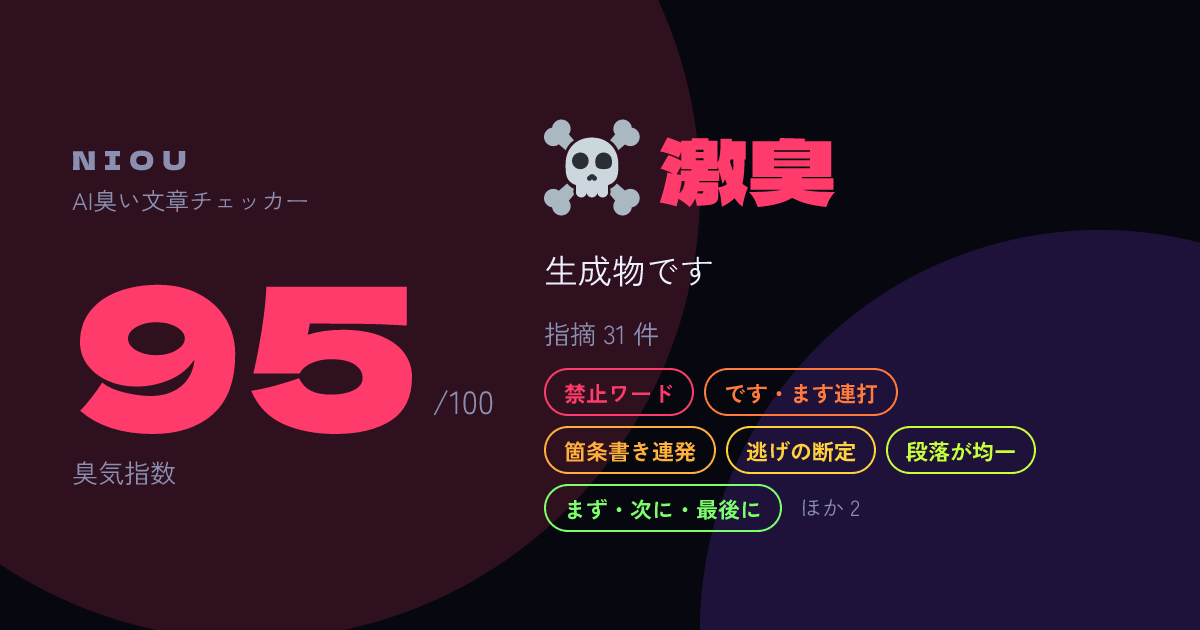
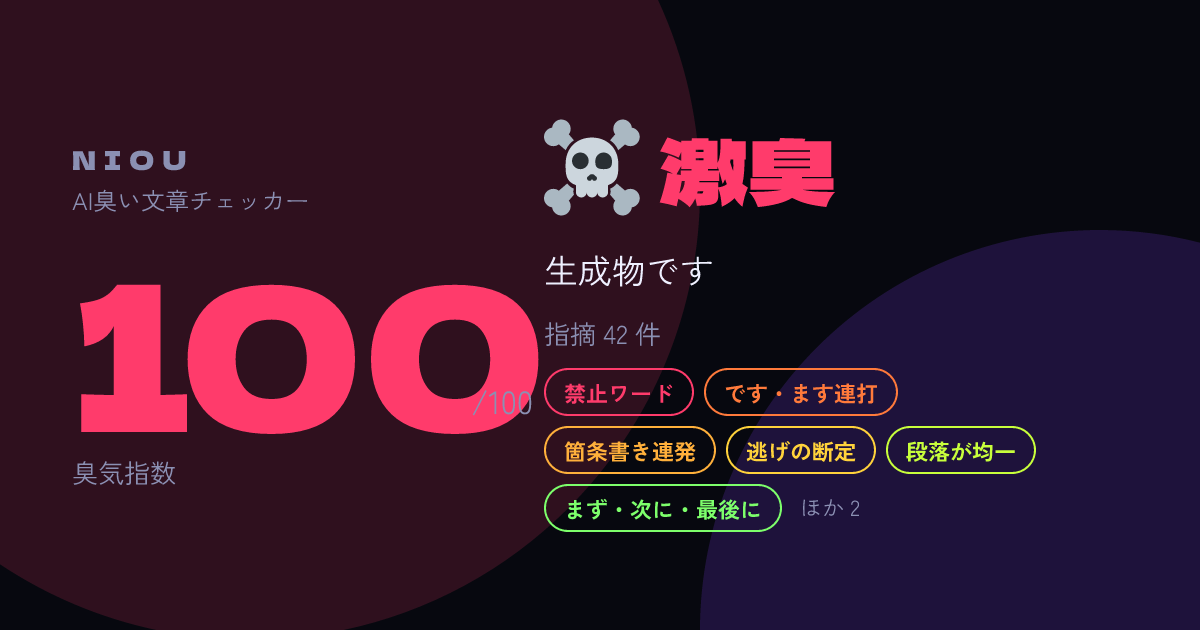
chore(samples): AI サンプルに追加の禁止ワードを織り込む
先に白状する・結論から言う・---・✅・効く・効いた・核心・正直言う・気づき。
「正直」は「正直言う」を禁止した整合で失敗語彙から外す

Changed region(s): [[0.0617, 0.4524, 0.4625, 0.6937], [0.4933, 0.5127, 0.555, 0.5429]]

diff --git a/src/core/samples.ts b/src/core/samples.ts
@@ -1,26 +1,32 @@
 /** 初見の人が 1 クリックで試せるサンプル */
 export const SAMPLE_AI = `# Cloudflare Workersとは
 
+先に白状すると、私がCloudflare Workersを本格的に触ったのは今回が初めてです。結論から言うと、非常におすすめできるサービスです。
+
 Cloudflare Workersとは、エッジで動作するサーバーレス実行環境のことです。本記事では、Cloudflare Workersの基本的な使い方について解説します。
+
+---
 
 ## メリット
 
 Cloudflare Workersには様々なメリットがあります。大きく分けて3つのポイントがあります。
 
-- 高速なレスポンスを実現できます
-- コールドスタートが非常に短いです
-- グローバルに分散配置されます
-- 料金が安価です
+- ✅ 高速なレスポンスを実現できます
+- ✅ コールドスタートが非常に短いです
+- ✅ グローバルに分散配置されます
+- ✅ 料金が安価です
 
-まず、高速なレスポンスについて見ていきましょう。エッジで動作するため、ユーザーに近い場所で処理を実行することができます。これにより、レイテンシを大幅に削減することが可能です。非常に重要なポイントです。
+まず、高速なレスポンスについて見ていきましょう。エッジで動作するため、ユーザーに近い場所で処理を実行することができます。これにより、レイテンシを大幅に削減することが可能です。特にキャッシュの設定が効きます。ここがCloudflare Workersの核心です。
 
-次に、コールドスタートについて説明します。V8 Isolateを活用しているため、起動時間は数ミリ秒です。従来のサーバーレスと比較して、飛躍的な改善と言えるでしょう。効率的な運用が期待されます。
+次に、コールドスタートについて説明します。V8 Isolateを活用しているため、起動時間は数ミリ秒です。従来のサーバーレスと比較して、飛躍的な改善と言えるでしょう。正直言うと、この速さが一番効いたと感じています。
 
 最後に、料金について紹介します。無料枠が用意されており、個人開発においても気軽に始めることができます。コストパフォーマンスに優れていると言えるでしょう。
 
+---
+
 ## まとめ
 
-このように、Cloudflare Workersは多くの利点を持つプラットフォームです。エッジコンピューティングの可能性を秘めていると言えるでしょう。ぜひ活用してみてください。この記事が参考になれば幸いです。いかがでしたか？
+ここでは今回の気づきをまとめます。このように、Cloudflare Workersは多くの利点を持つプラットフォームです。エッジコンピューティングの可能性を秘めていると言えるでしょう。ぜひ活用してみてください。この記事が参考になれば幸いです。いかがでしたか？
 `;
 
 export const SAMPLE_HUMAN = `# Workers に移行して 3 週間、まだ Durable Objects が怖い

diff --git a/src/core/dict/failure.ts b/src/core/dict/failure.ts
@@ -29,7 +29,6 @@ export const FAILURE_WORDS: RegExp[] = [
 	/謎/,
 	/不明/,
 	/微妙/,
-	/正直/,
 	/困(っ|り)/,
 	/しんど/,
 	/つらか|辛か/,
